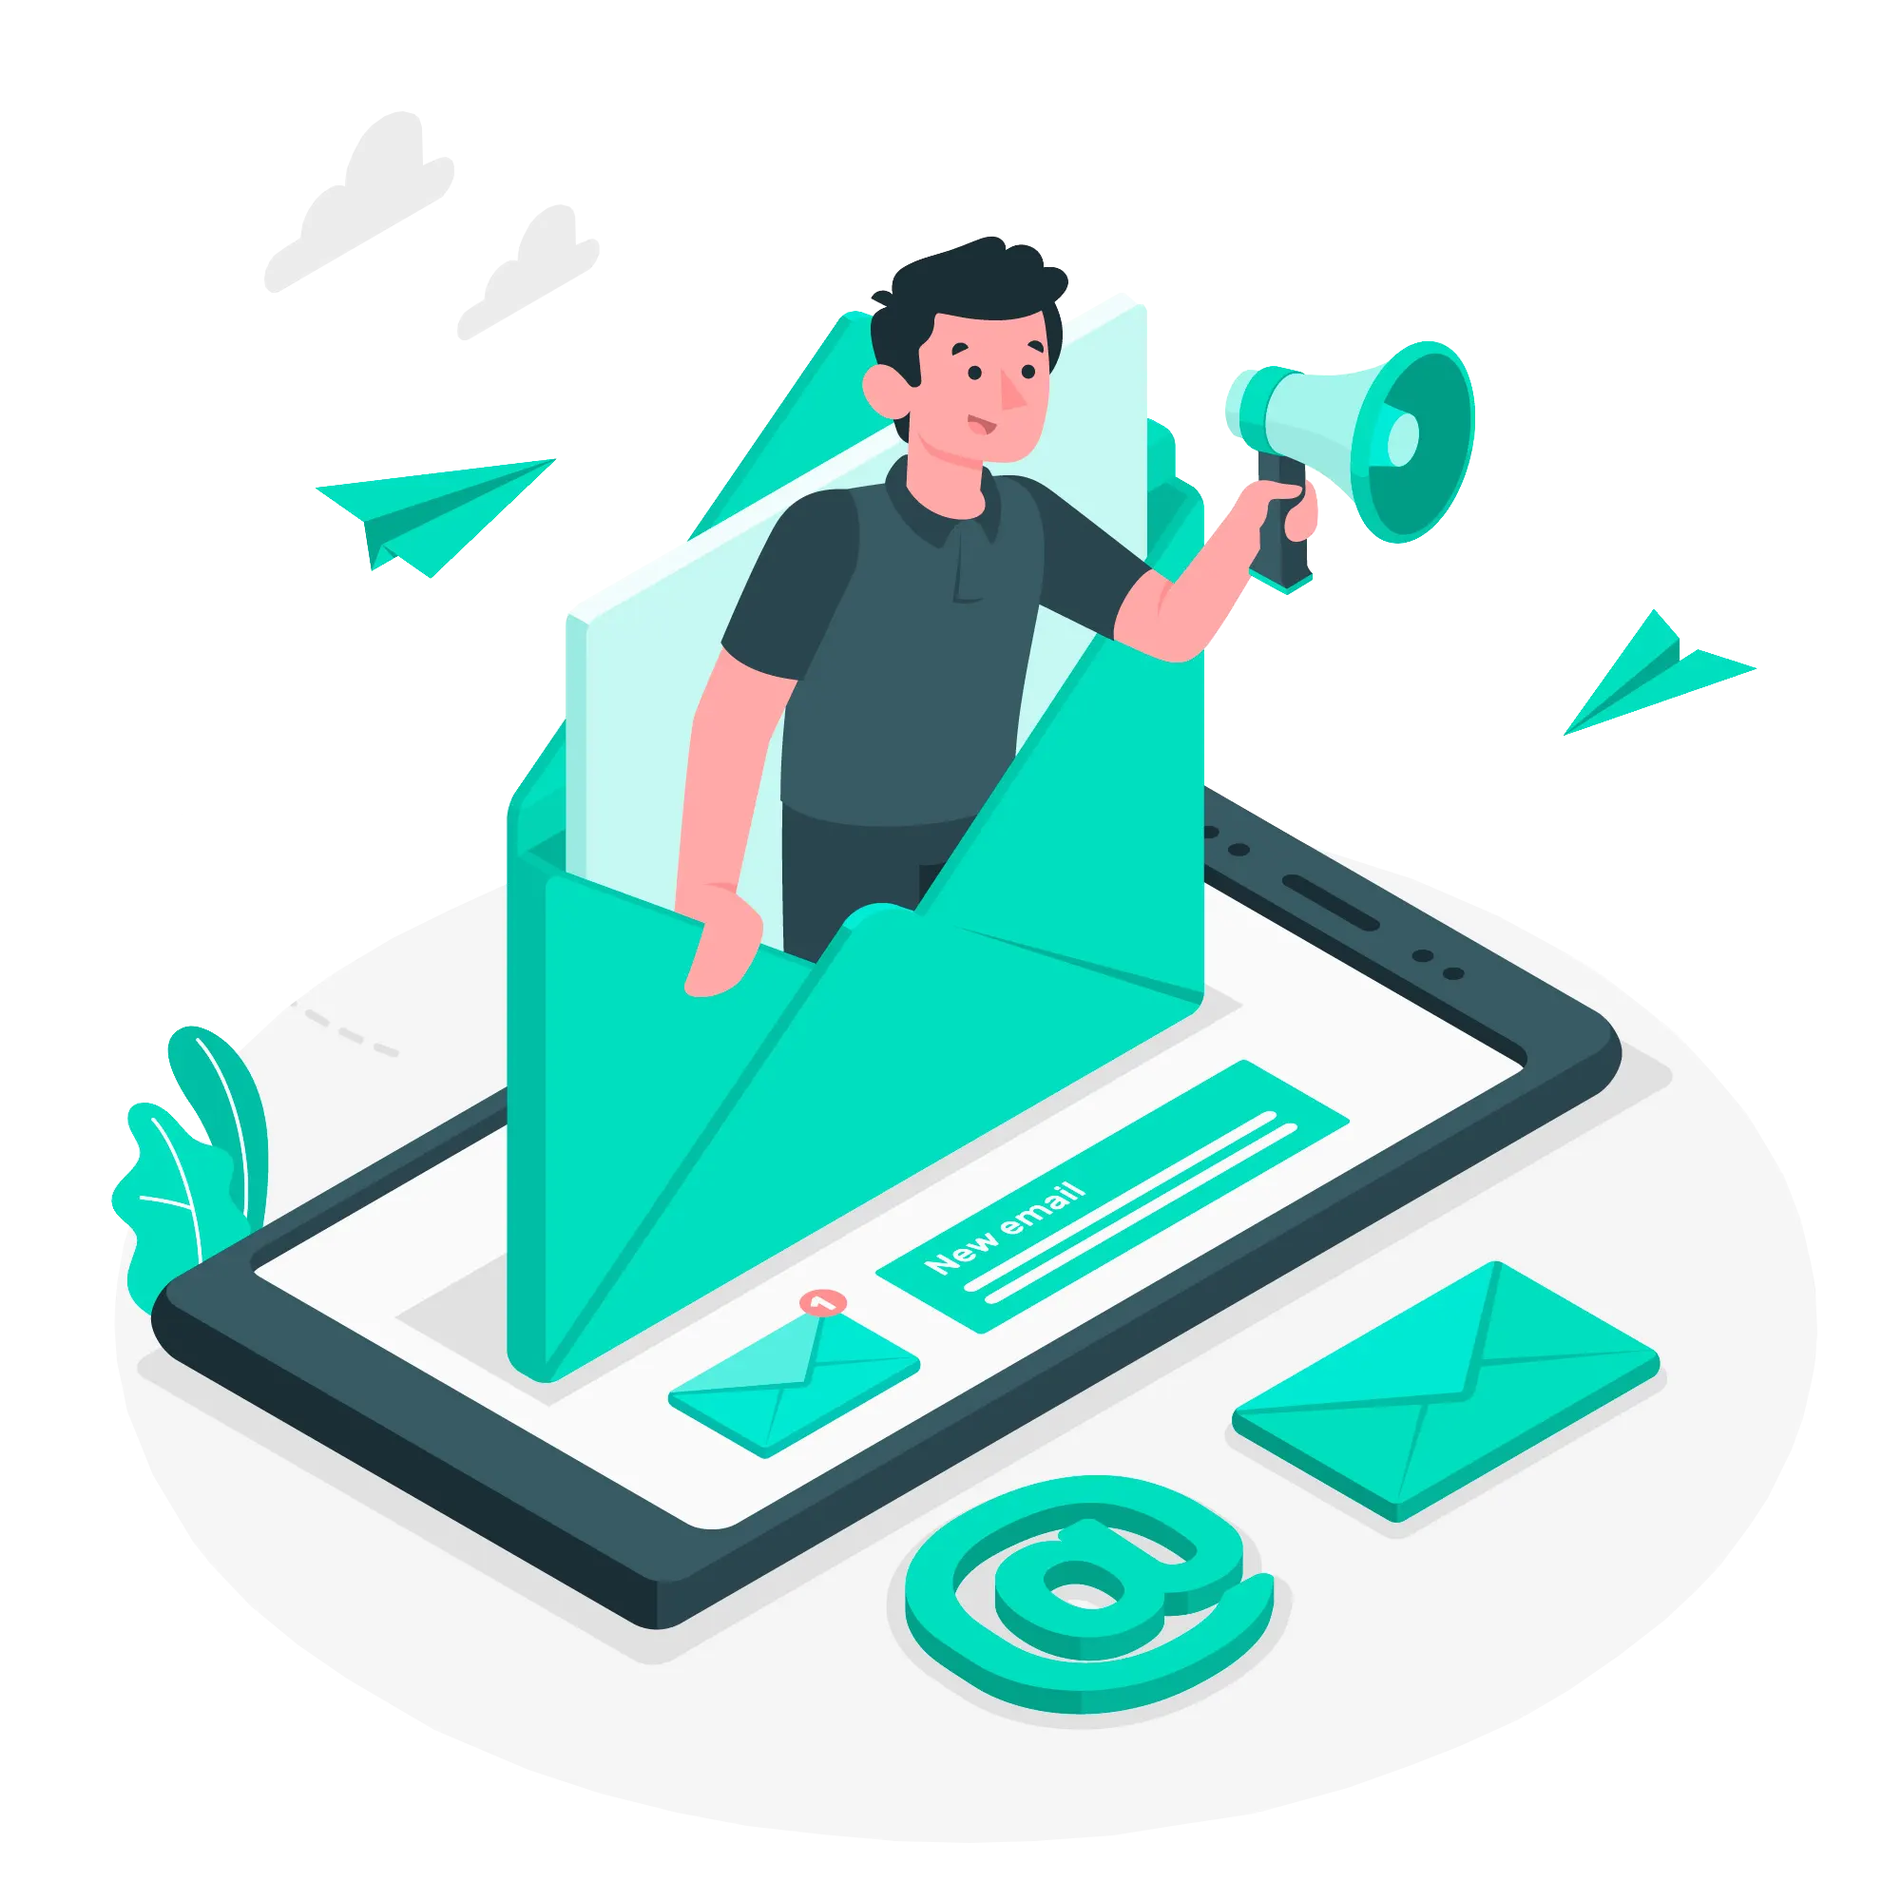
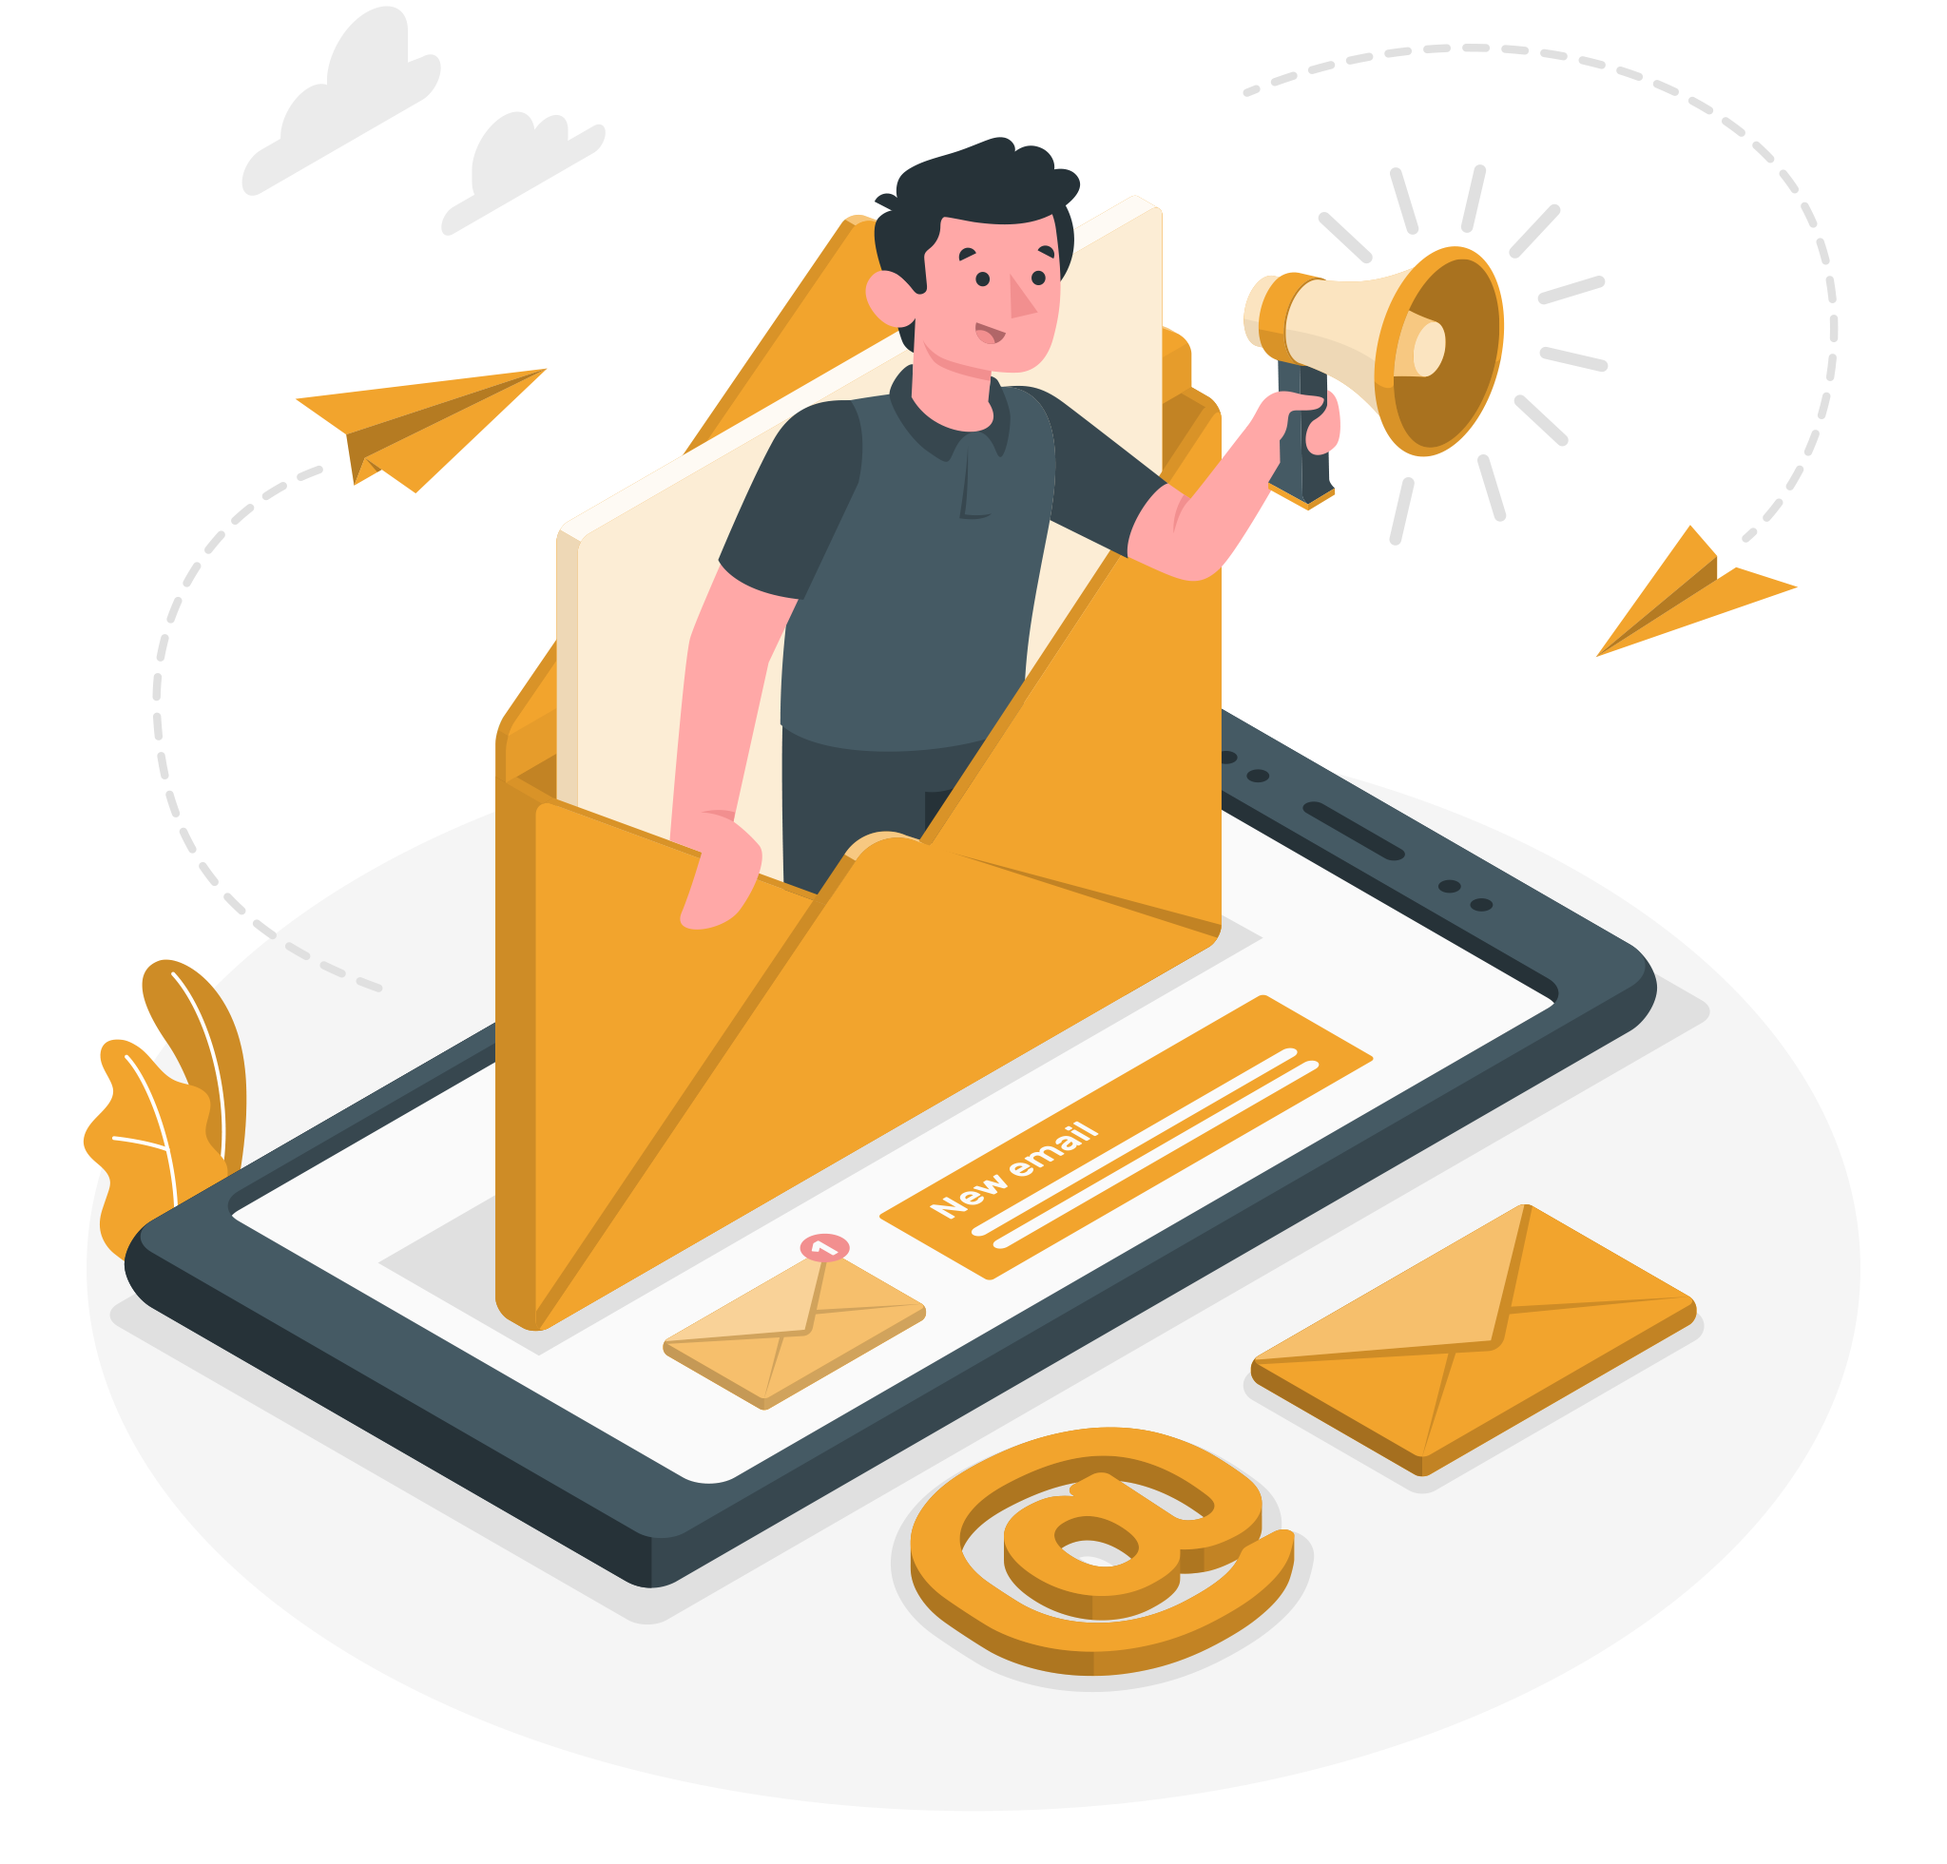
Design changes

diff --git a/components/Form.jsx b/components/Form.jsx
@@ -114,7 +114,7 @@ export default function Form() {
                     ppDiv(pdfPhone1, { padding: { top: 2 }}),
                     pdfPhone2,
                     ppText(msTeams ? `MS Teams ${msTeamsLinks}` : '', { fontSize: 8, textColor: '#4c565c' })
-                ], { width: 95, crossAxisAlignment: "end" });
+                ], { width: 45, crossAxisAlignment: "end" });
                 // PDF Rightside content
                 const companyName = ppText("ip&more GmbH", { fontSize: 9, textColor: '#4c565c', bold: true });
                 const companyDir = ppText("Oskar-Messter-Str. 13, 85737 Ismaning", { fontSize: 7, textColor: '#4c565c' });
@@ -169,8 +169,8 @@ export default function Form() {
 
     return (
         <>
-            <div className="flex items-center justify-center w-1/2 h-[90vh] min-h-[65rem]">
-                <div className="px-20 w-full flex flex-col items-center justify-center">
+            <div className="flex items-center justify-center w-full lg:w-1/2 lg:h-screen lg:min-h-[65rem] bg-white">
+                <div className="px-5 sm:px-20 w-full flex flex-col items-center justify-center gap-5">
                     <div className="lazy-load-1">
                         <Image src={"/logo.webp"} width={297} height={100} alt="Brand logo" />
                     </div>
@@ -274,7 +274,7 @@ function Input({ id, label, placeholder, type, value, onChange, classes }) {
                 onChange={onChange}
                 type={type}
                 placeholder={placeholder}
-                className="border border-[#f2a42d] rounded-lg px-3 py-2 placeholder:font-light placeholder:text-zinc-400 outline-none"
+                className="border-2 border-[#f2a42d] rounded-lg px-3 py-2 placeholder:font-light placeholder:text-zinc-400 outline-none"
             />
         </div>
     )

diff --git a/pages/index.jsx b/pages/index.jsx
@@ -5,14 +5,14 @@ import Form from "@/components/Form";
 
 export default function Home() {
 	return (
-		<main className={"flex items-center h-screen min-h-[65rem]"}>
-			<section className="flex flex-col items-center justify-center gap-10 w-1/2 h-full bg-[#075B4D]">
+		<main className={"flex flex-col lg:flex-row items-center gap-20 lg:gap-0 lg:bg-[#f19c1d] py-16 lg:py-0"}>
+			<section className="flex flex-col items-center justify-center gap-10 lg:w-1/2 lg:h-screen lg:min-h-[45rem] px-5 sm:px-0">
 				<div className="lazy-load-1">
-					<Image className="mx-auto" src={"/form-image.webp"} width={440} height={440} priority={true} alt="Brand logo" />
+					<Image className="mx-auto lg:w-full" src={"/form-image.webp?key=1"} width={440} height={440} priority={true} alt="Brand logo" />
 				</div>
-				<div className="flex flex-col gap-2 text-center text-zinc-100 lazy-load-2">
-					<span className="text-2xl font-semibold">Erstellen Sie Ihre digitale Signatur</span>
-					<p className="w-2/3 mx-auto">Füllen Sie das Formular aus und erhalten Sie Ihre <span className="text-[#f2a42d] font-medium">E-Mail-Signatur</span></p>
+				<div className="flex flex-col gap-2 text-center lg:text-zinc-100 lazy-load-2">
+					<span className="text-2xl font-semibold text-[#f19c1d] lg:text-white">Erstellen Sie Ihre digitale Signatur</span>
+					<p className="w-2/3 mx-auto">Füllen Sie das Formular aus und erhalten Sie Ihre <span className="text-[#f19c1d] lg:text-[#855000] font-medium">E-Mail-Signatur.</span></p>
 				</div>
 			</section>
 			<Form />

diff --git a/styles/globals.css b/styles/globals.css
@@ -7,6 +7,7 @@
 
 body {
     font-family: 'Poppins', sans-serif;
+    user-select: none;
 }
 
 /* Change the white to any color */
@@ -15,6 +16,14 @@ input:-webkit-autofill:hover,
 input:-webkit-autofill:focus, 
 input:-webkit-autofill:active{
     -webkit-box-shadow: 0 0 0 30px white inset !important;
+}
+
+img {
+    -webkit-user-drag: none;
+    -khtml-user-drag: none;
+    -moz-user-drag: none;
+    -o-user-drag: none;
+    user-drag: none;
 }
 
 .input-transition {
